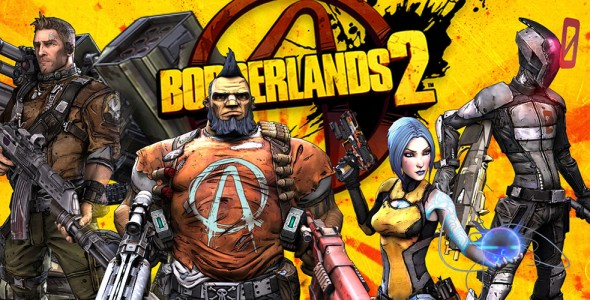
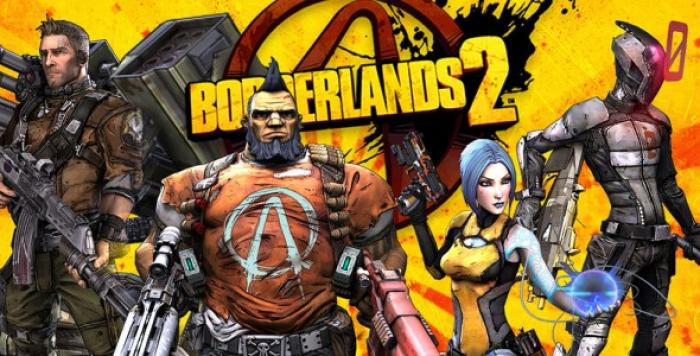
Site

diff --git a/style.css b/style.css
@@ -4,7 +4,6 @@
 
 
 body{
-  background-color: #C63915;
   float: left;
   width: 100%;
   margin: 0;
@@ -12,8 +11,9 @@ body{
 
 body #banniere{
   width: 100%;
-  height:150px;
+  height:170px;
   float: left;
+  background-color: #918055;
 }
 
 body #banniere #image{
@@ -23,6 +23,7 @@ body #banniere #image{
   background-repeat: no-repeat;
   height: 120px;
   width: 120px;
+
 }
 
 body #banniere #header{
@@ -40,19 +41,25 @@ body #banniere #header li{
   display: inline;
 }
 
+body div#banniere input{
+  border-radius: 8px;
+}
+
 body #fond{
   height: auto;
   width: 100%;
   display: block;
   text-align: center;
   float: left;
+  background-color: #918055;
+
 }
 
 body #fond img{
-  width: 1200px;
+  width: 800px;
   margin-left: auto;
   margin-right: auto;
-  height: 250px;
+  height: 300px;
 }
 
 body #contenu1{
@@ -62,10 +69,13 @@ body #contenu1{
 }
 
 body #contenu1 h1{
-  padding-left: 25px;
+  padding-left: 35px;
 }
 
 body #contenu1 p{
+  width: 95%;
+  margin-left: 2.5%;
+  margin-right: 2.5%
 
 }
 
@@ -82,7 +92,7 @@ body #contenu2 #Im{
   display: inline-block;
   height: auto;
   width: 23%;
-  background-color: black;
+  background-color: #0576D6;
   margin-top: 10px;
   text-align: center;
 }
@@ -150,6 +160,7 @@ body #formulaire textarea{
 
 body #formulaire #send{
   width: 25%;
+  float: right;
 }
 
 body #footer{
@@ -163,4 +174,135 @@ body #footer{
 
 body #footer p{
   padding-right: 4%;
+}
+
+@media screen and (min-width: 415px) and (max-width: 800px) {
+
+  body #banniere{
+    height:190px;
+
+  }
+
+  body div#banniere div#image{
+    text-align: center;
+    width: 100%;
+    background-position: center center;
+    margin-top: 10px;
+  }
+
+  body div#banniere div#header{
+    text-align: center;
+    width: 100%;
+    margin-top: 10px;
+    margin-bottom: 10px;
+
+  }
+
+  body div#fond img{
+    width: 100%;
+  }
+
+  body div#contenu2 div#Im{
+    display: inline-block;
+    height: auto;
+    width: 49%;
+    background-color: #0576D6;
+    margin-top: 10px;
+    text-align: center;
+  }
+
+  body #contenu2 #Im img{
+    height: 115px;
+    width: 100px;
+    margin-left: auto;
+    margin-right: auto;
+  }
+
+  body #geolocalisation iframe{
+    width: 100%;
+  }
+
+  body #formulaire input{
+    width: 97.5%;
+  }
+
+  body #formulaire textarea{
+    width: 97.5%;
+  }
+
+  body #formulaire #send{
+    width: 97.5%;
+  }
+
+}
+  @media screen and (max-width: 414px) {
+
+  body #banniere{
+    height:100px;
+  }
+
+  body div#banniere div#image{
+    text-align: center;
+    width: 100%;
+    background-position: center center;
+    margin-top: 10px;
+    margin-bottom: 10px;
+  }
+
+  body #banniere #image{
+    height: 80px;
+    width: 80px;
+  }
+
+  body div#fond img{
+    width: 100%;
+    height: 150px;
+  }
+
+  body div#contenu2 div#Im{
+    display: inline-block;
+    height: auto;
+    width: 98%;
+    background-color: #0576D6;
+    margin-top: 10px;
+    text-align: center;
+  }
+
+  body #contenu2 #Im img{
+    height: 115px;
+    width: 100px;
+    margin-left: auto;
+    margin-right: auto;
+  }
+
+  body div#geolocalisation{
+    width: 100%;
+    border-right: none;
+    }
+
+  body #geolocalisation iframe{
+    width: 96%;
+    padding-left: 0px;
+    margin-left: 2%;
+    margin-right: 2%;
+  }
+
+  body #formulaire{
+    width: 100%;
+
+  }
+
+  body #formulaire input{
+    width: 97.5%;
+  }
+
+  body #formulaire textarea{
+    width: 97.5%;
+  }
+
+  body #formulaire #send{
+    width: 97.5%;
+  }
+
+
 }

diff --git a/index.html b/index.html
@@ -9,11 +9,15 @@
 <body>
   <div id="banniere">
 
+    <div id="image">
+
+    </div>
+
     <div id="header">
 
     <ul>
       <li>Accueil</li>
-      <li>Titre 1</li>
+      <li>Index</li>
       <li>Contact</li>
     </ul>
 
@@ -21,13 +25,10 @@
 
     </div>
 
-  <div id="image">
-
-  </div>
 
 </div>
   <div id="fond">
-      <img src="bl2bb.jpg" />
+      <img src="Borderlands2.jpg" />
   </div>
 
 
